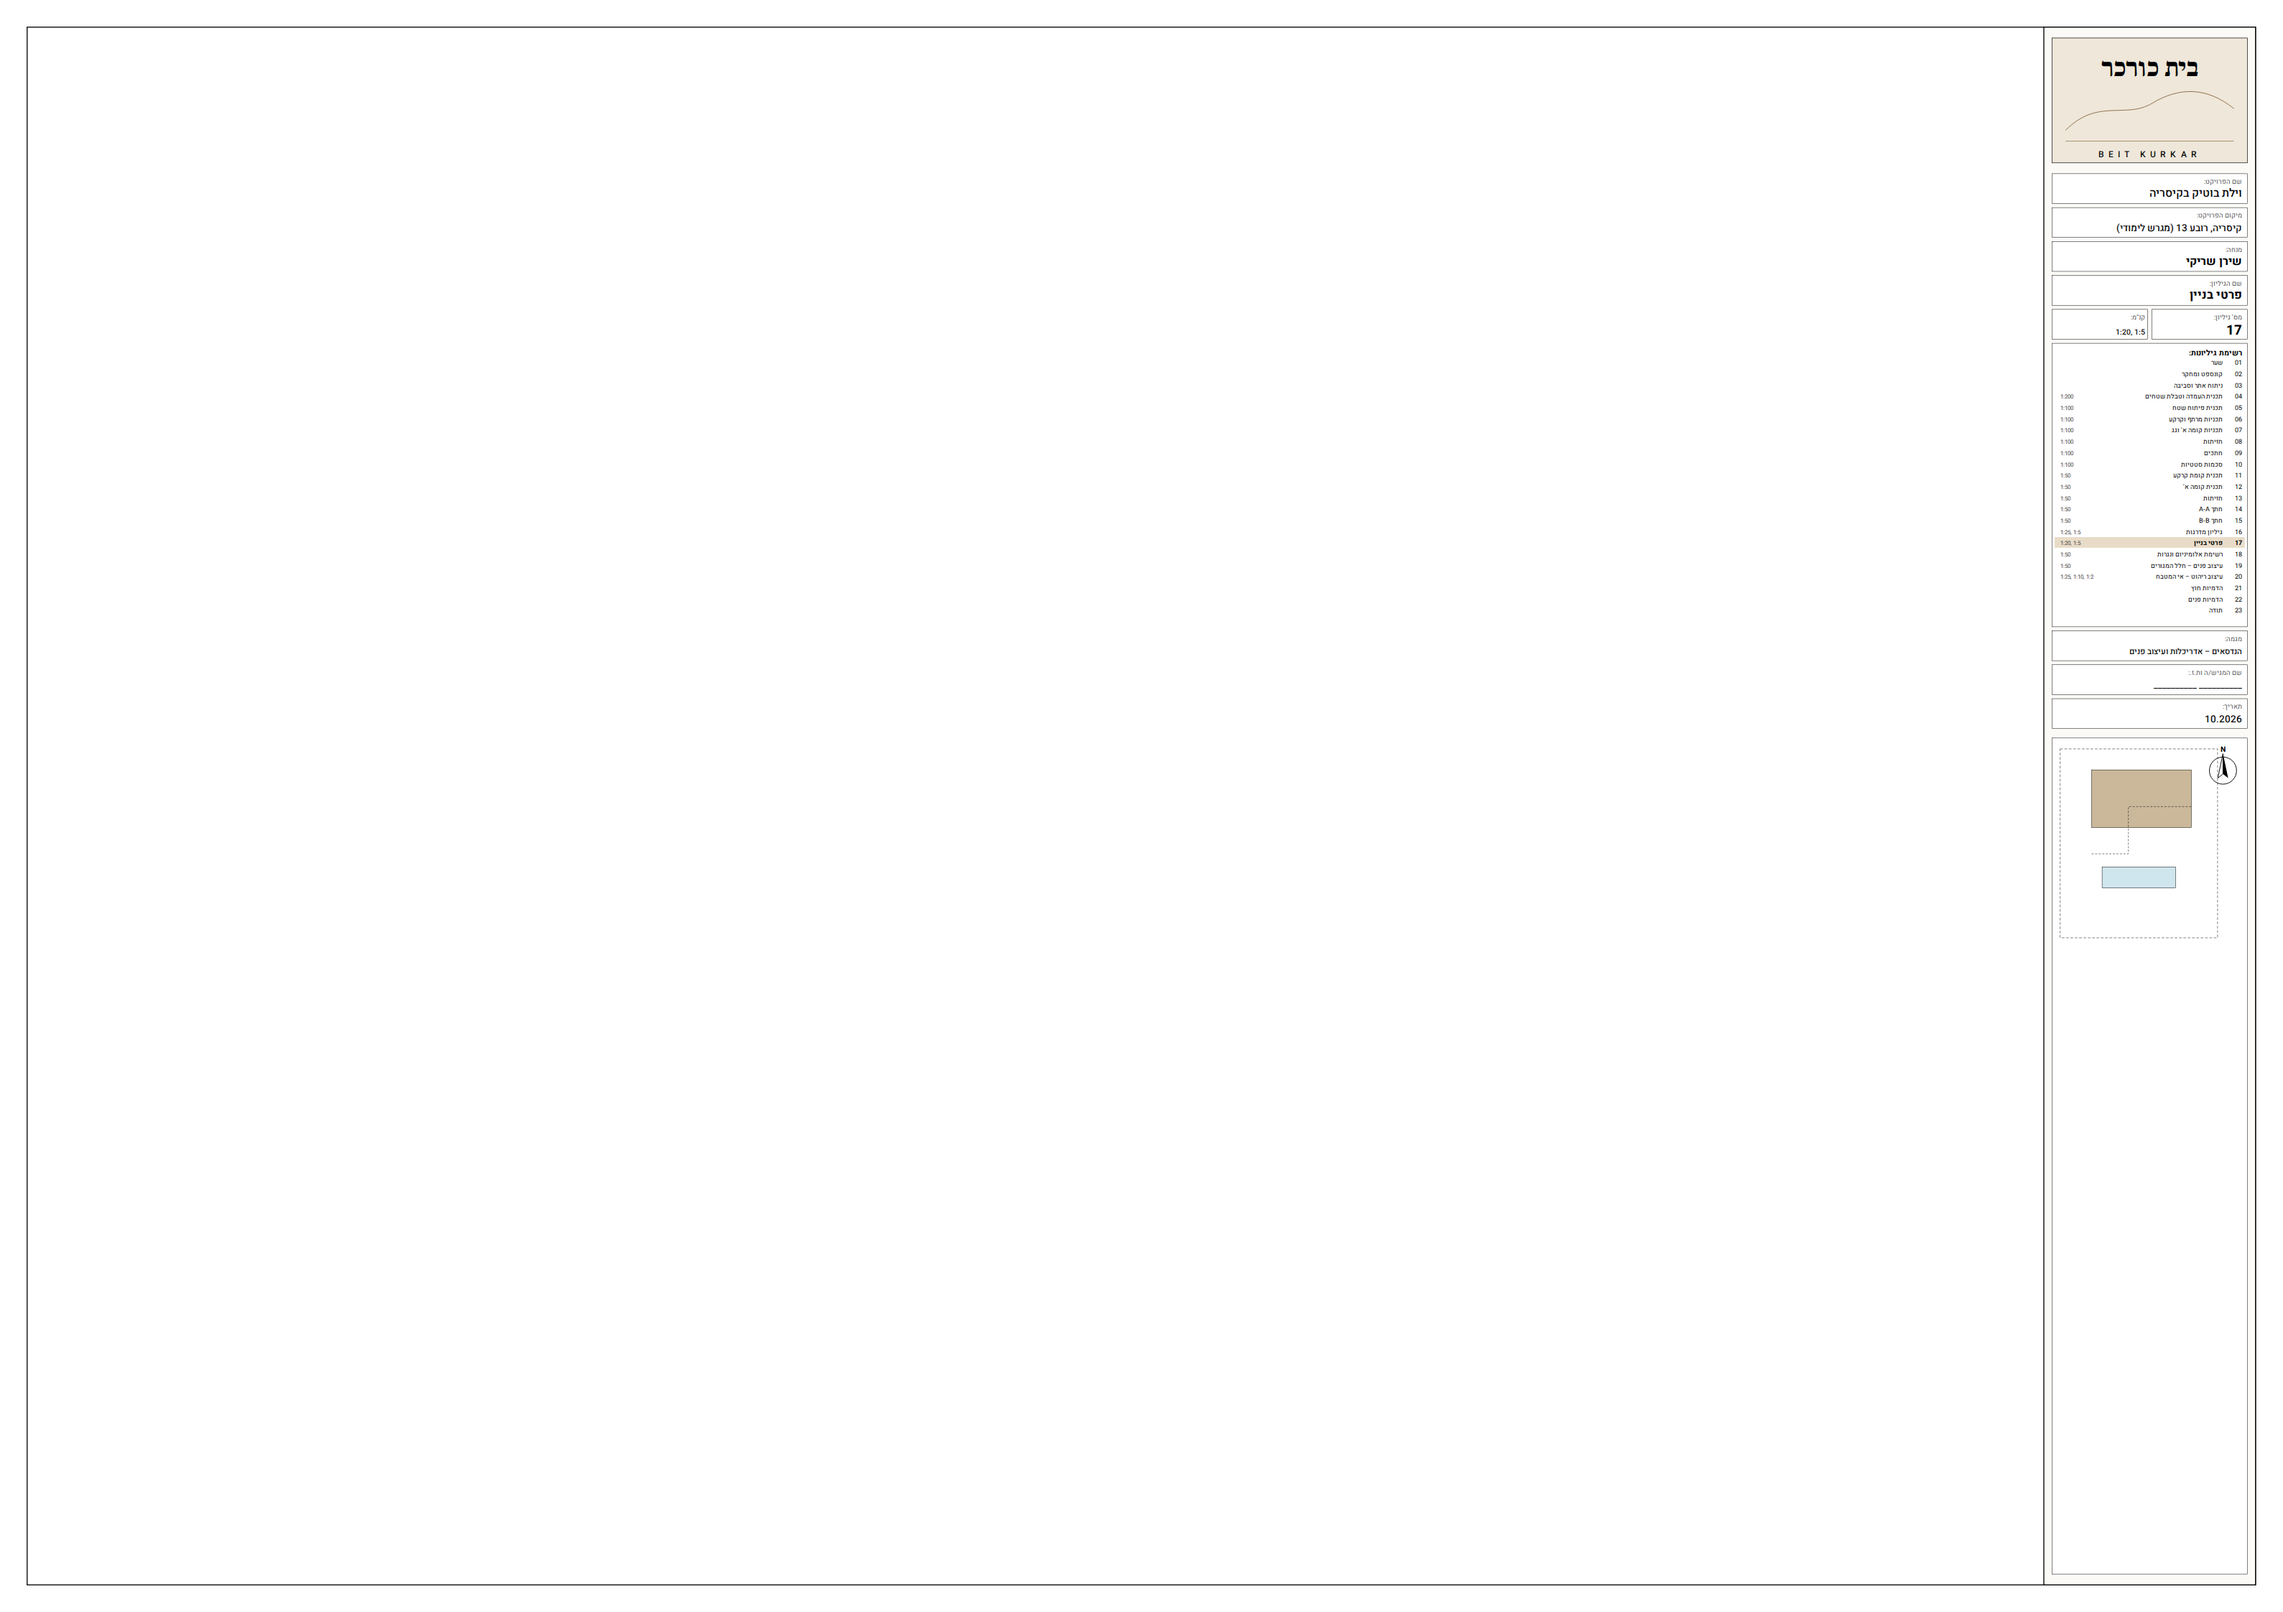
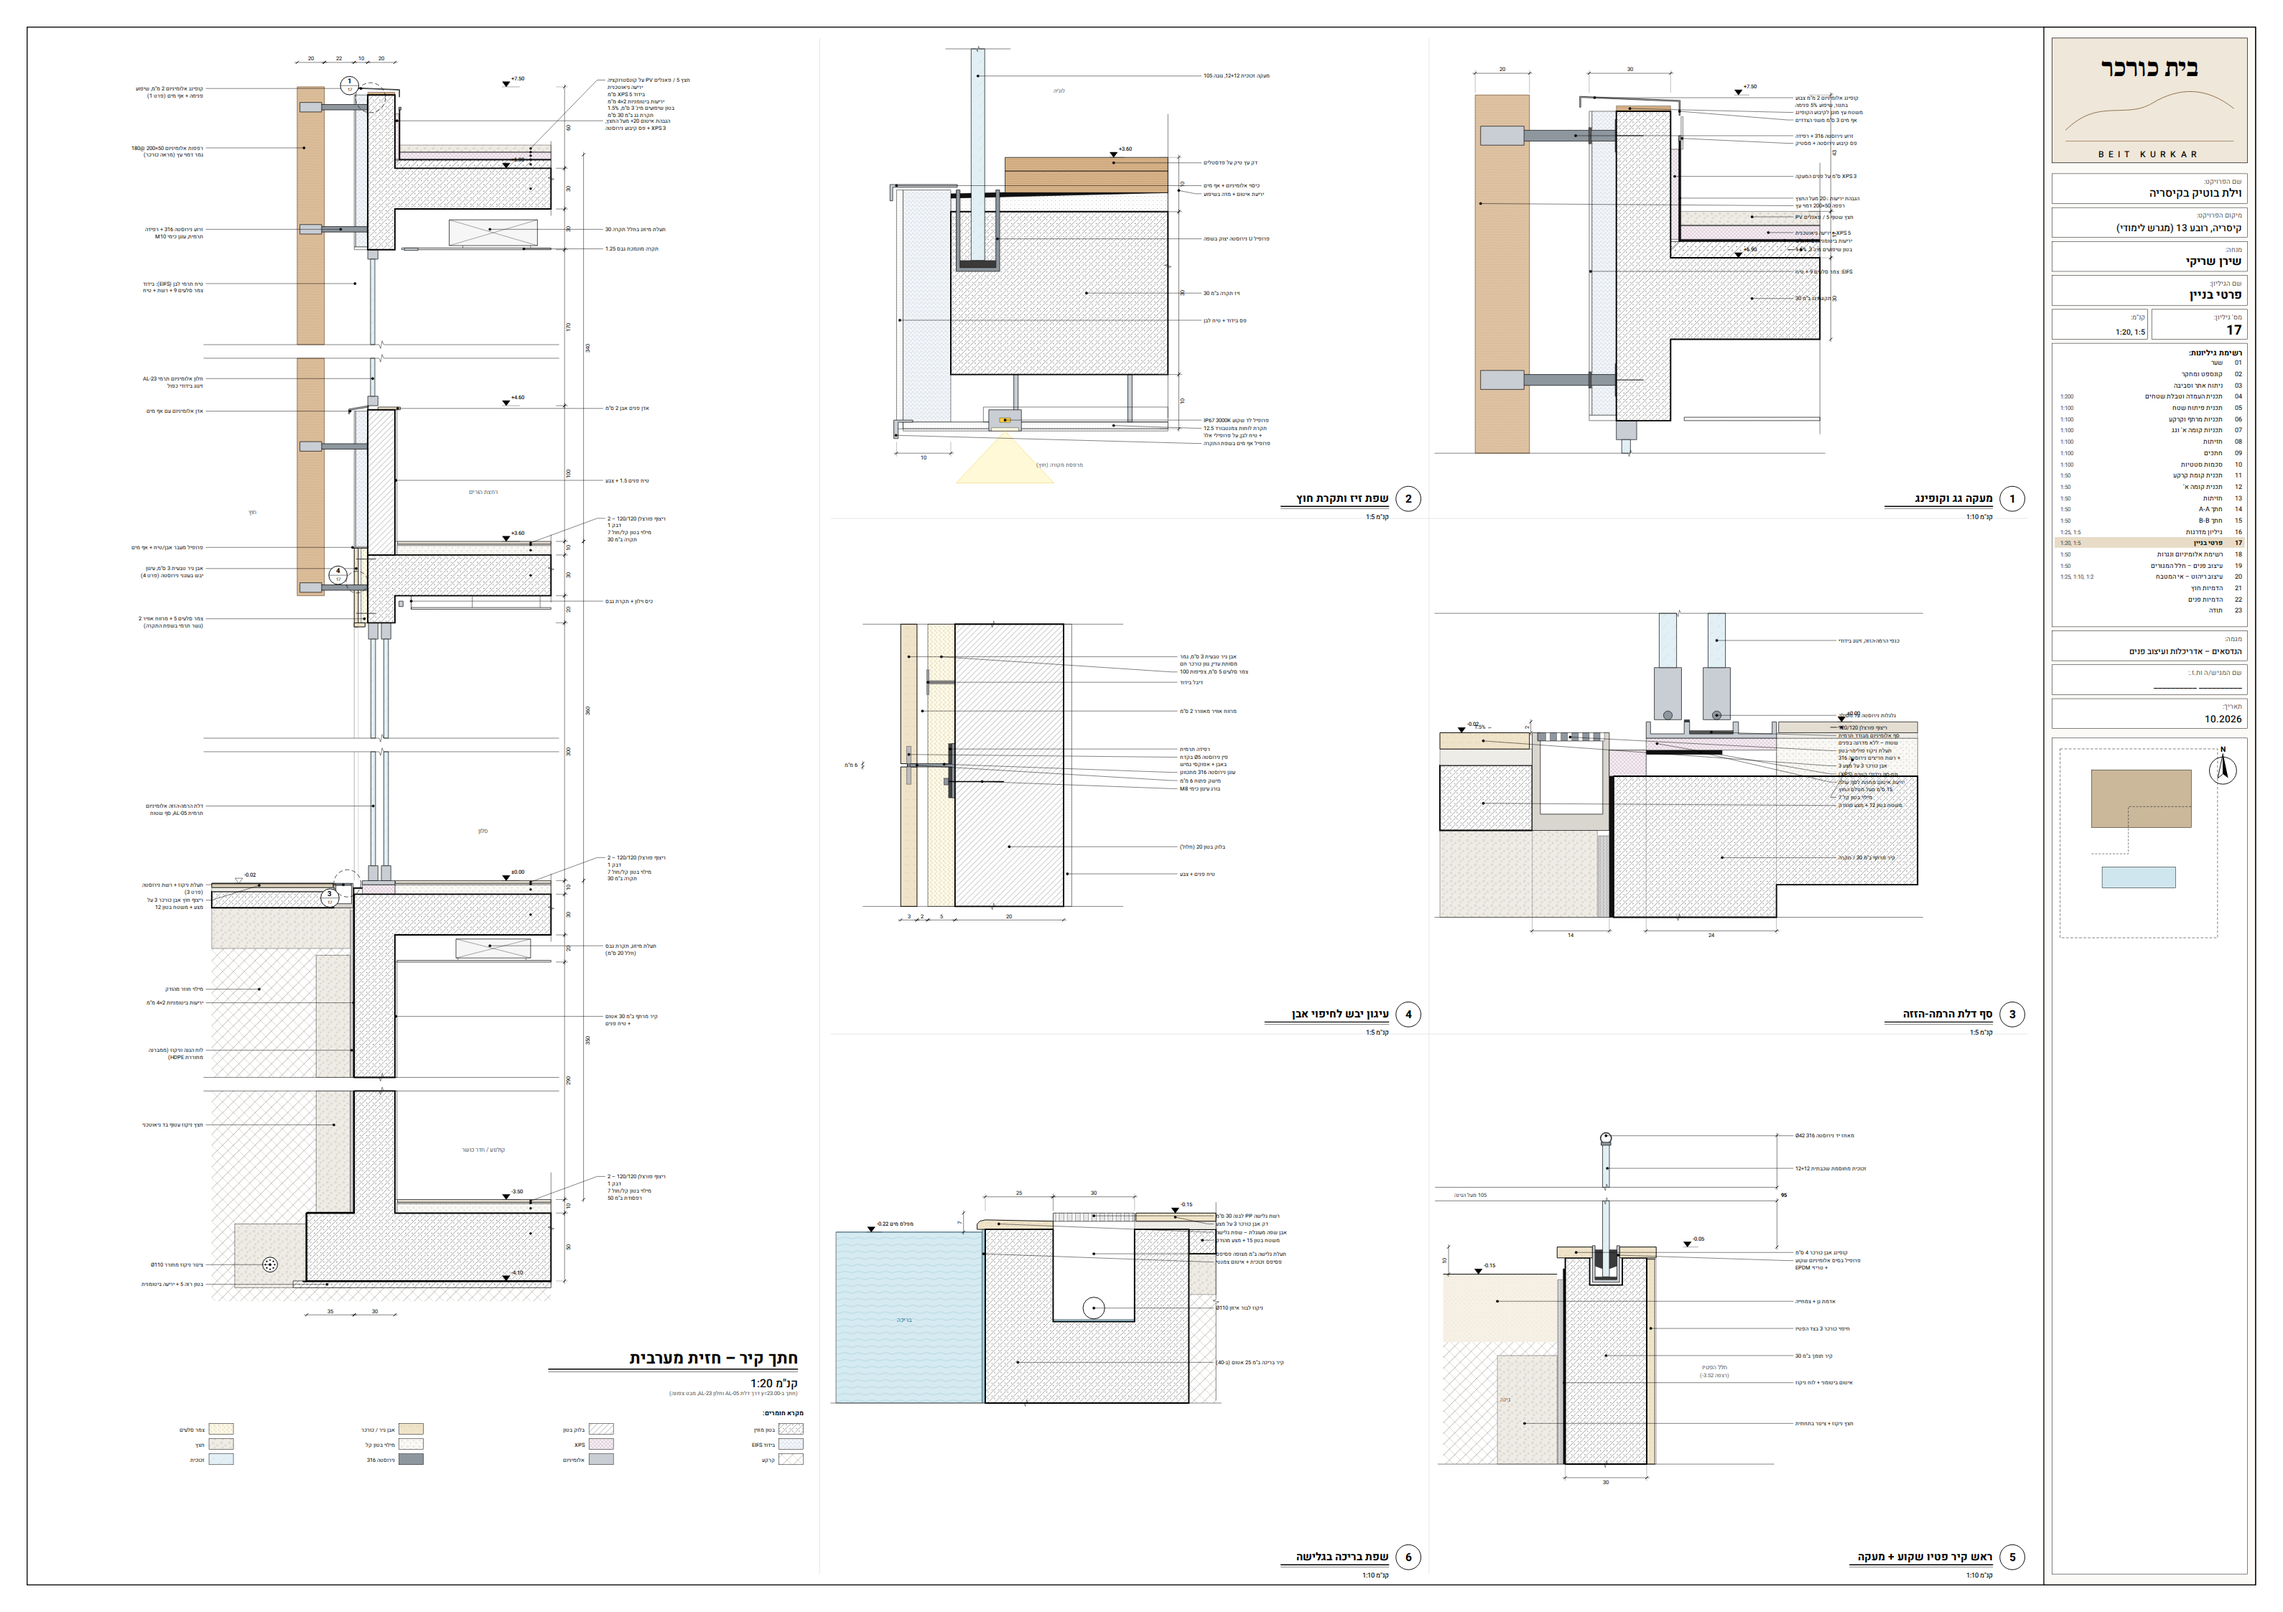
WIP: agent sheet updates
Claude-Session: https://claude.ai/code/session_0114oAL1XUo67PwDAkMWcqVk

diff --git a/villa-caesarea/src/interior.py b/villa-caesarea/src/interior.py
@@ -1858,12 +1858,12 @@ def threshold_detail(sh, x_right, y_top):
     sh.end_group()
     sh.rect(ox + xa * k, oy - zb * k, (xb - xa) * k, (zb - za) * k, lw="xxs", color="#999")
     v.line(0.0, za, 0.0, zb, lw="xxs", color="#999", dash="3 0.8 0.6 0.8")
-    v.text(-0.15, za + 0.035, "פנים", size=2.2, weight=700, color="#fff")
-    v.text(0.22, za + 0.035, "חוץ", size=2.2, weight=700, color="#fff")
+    v.text(-0.17, 0.05, "פנים", size=2.4, weight=700, color="#6a5a48")
+    v.text(0.20, 0.05, "חוץ", size=2.4, weight=700, color="#6a5a48")
     items = [
         (*v.P(-0.02, 0.09), ["ויטרינה הזזה לכיס – זכוכית בידודית"]),
-        (*v.P(0.25, -0.01), ["פורצלן חוץ FL-02 20 מ\"מ R11, מפלס זהה"]),
         (*v.P(-0.20, -0.004), ["פורצלן FL-01 9 מ\"מ, דבק C2TE"]),
+        (*v.P(0.25, -0.01), ["פורצלן חוץ FL-02 20 מ\"מ R11, מפלס זהה"]),
         (*v.P(-0.00, -0.04), ["מסילה תחתונה שקועה, נירוסטה 316"]),
         (*v.P(0.12, -0.05), ["תעלת ניקוז לינארית + רשת פליז"]),
         (*v.P(0.064, -0.08), ["איטום מוגבה עד תחתית המסילה"]),

diff --git a/villa-caesarea/src/details_wall.py b/villa-caesarea/src/details_wall.py
@@ -23,7 +23,7 @@ Y_CUT = 23.00
 
 S_ALUW = dict(fill="dx:aluwood", lw="s")
 S_TEAK = dict(fill="dx:teak", lw="s")
-S_EARTHL = dict(fill="pat:earth", lw="none", color="none")
+S_EARTHL = dict(fill="pat:earth", lw="xxs", color="none")
 S_GRAV = dict(fill="pat:gravel", lw="xxs")
 S_WATER = dict(fill="dx:water", lw="xs")
 S_RUB = dict(fill="dx:rubber", lw="xxs")
@@ -655,7 +655,7 @@ def det_patio(sh, x, y, w, h):
     fr = _frame_in(sh, (x, y, w, h), 10, xa, xb, -0.85, ztop + hrail + 0.06, frac=0.55, bands=bands)
     it = []
     it.append((R(xa, -0.85, xw0 - 0.03, gard - 0.25), S_EARTHL))
-    it.append((R(xa, gard - 0.25, xw0 - 0.03, gard), dict(fill="dx:sandx", lw="none", color="none")))
+    it.append((R(xa, gard - 0.25, xw0 - 0.03, gard), dict(fill="dx:sandx", lw="xxs", color="none")))
     it.append((R(xw0 - 0.25, -0.85, xw0 - 0.03, gard - 0.30), S_GRAV))
     it.append((R(xw0 - 0.008, -0.85, xw0, gard + 0.02), S_MEMB))
     it.append((R(xw0 - 0.028, -0.85, xw0 - 0.008, gard - 0.02), S_DRAIN))
